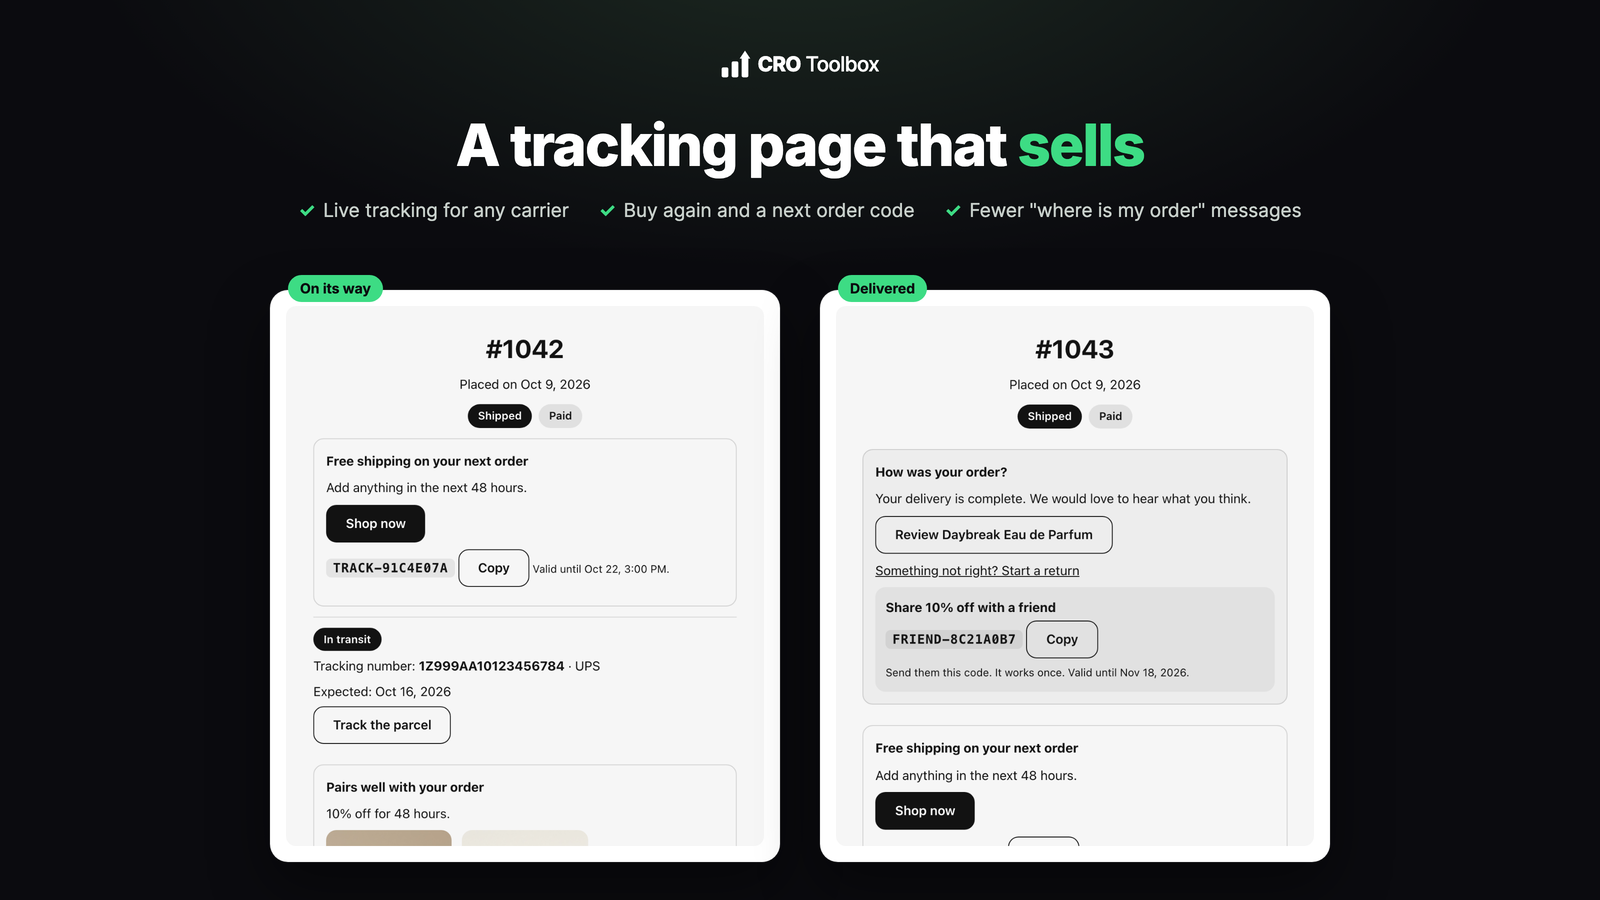
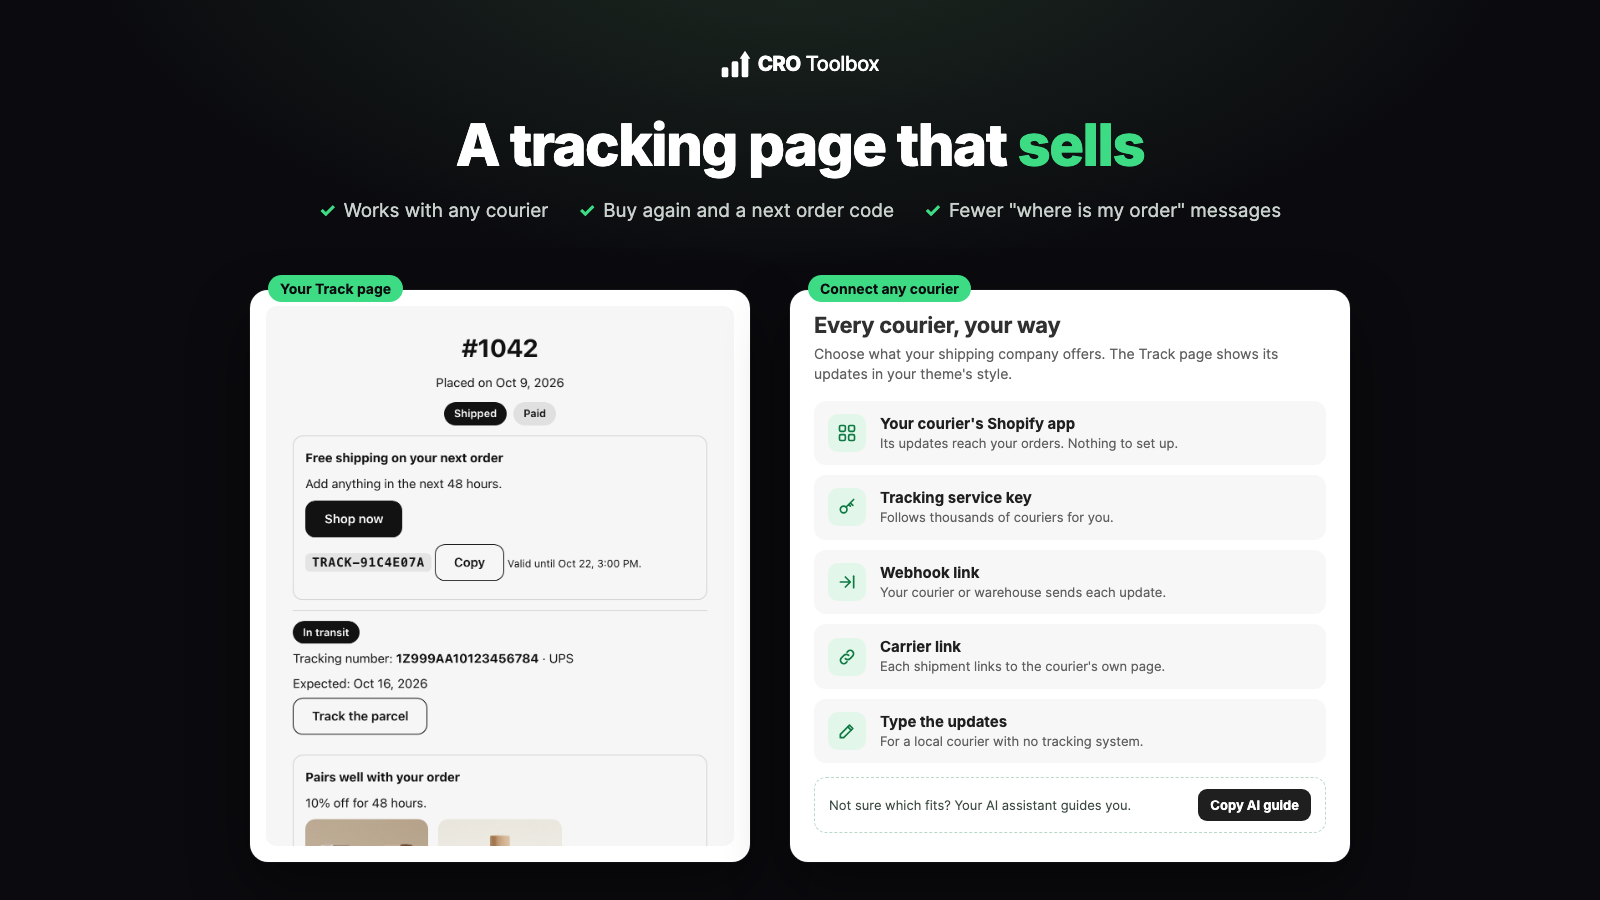
Listing: tracking screenshot shows the ways to connect any courier; workboard: add to order after approval

diff --git a/branding/listing/templates/shot-4-tracking.html b/branding/listing/templates/shot-4-tracking.html
@@ -1,13 +1,39 @@
 <!doctype html>
-<!-- Listing screenshot 4 (centred top layout, like feature.html). Render: scripts/listing/render.sh shot-4-tracking -->
-<html><head><meta charset="utf-8"><link rel="stylesheet" href="../styles.css"></head>
+<!-- Listing screenshot 4 (centred top layout, like feature.html): the Track page and the ways to connect any courier.
+     Render: scripts/listing/render.sh shot-4-tracking -->
+<html><head><meta charset="utf-8"><link rel="stylesheet" href="../styles.css">
+<style>
+  .ways { padding: 22px 24px 20px; color: #303030; }
+  .ways h2 { font-size: 22px; font-weight: 700; letter-spacing: -.3px; }
+  .ways .sub { font-size: 14px; color: #616161; margin-top: 6px; line-height: 1.45; }
+  .ways .list { margin-top: 16px; display: flex; flex-direction: column; gap: 10px; }
+  .way { display: flex; gap: 14px; align-items: center; background: #f6f7f6; border-radius: 12px; padding: 13px 14px; }
+  .way .ic { flex: none; width: 38px; height: 38px; border-radius: 10px; background: #e3f6ea; display: grid; place-items: center; }
+  .way .ic svg { width: 20px; height: 20px; stroke: #0e7a43; fill: none; stroke-width: 2; stroke-linecap: round; stroke-linejoin: round; }
+  .way b { display: block; font-size: 15px; font-weight: 650; color: #1f1f1f; }
+  .way span { display: block; font-size: 13px; color: #616161; margin-top: 2px; line-height: 1.35; }
+  .ways .ai { margin-top: 14px; display: flex; align-items: center; justify-content: space-between; gap: 12px; border: 1px dashed #b9d9c6; border-radius: 12px; padding: 11px 14px; }
+  .ways .ai span { font-size: 13px; color: #3d4a42; line-height: 1.35; }
+  .ways .ai i { font-style: normal; flex: none; font-size: 13px; font-weight: 650; background: #1f1f1f; color: #fff; padding: 8px 12px; border-radius: 9px; }
+</style></head>
 <body>
   <div class="top">
     <img class="logo" src="../logo.svg" alt="">
     <h1>A tracking page that <span>sells</span></h1>
-    <div class="checks"><div><b>✓</b>Live tracking for any carrier</div><div><b>✓</b>Buy again and a next order code</div><div><b>✓</b>Fewer "where is my order" messages</div></div>
+    <div class="checks"><div><b>✓</b>Works with any courier</div><div><b>✓</b>Buy again and a next order code</div><div><b>✓</b>Fewer "where is my order" messages</div></div>
   </div>
-</body></html>
-  <div class="card" style="left:270px; top:290px; width:510px"><span class="tag">On its way</span><img src="../widgets/track.png" style="height:540px;object-fit:cover;object-position:top"></div>
-  <div class="card" style="left:820px; top:290px; width:510px"><span class="tag">Delivered</span><img src="../widgets/track-delivered.png" style="height:540px;object-fit:cover;object-position:top"></div>
+  <div class="card" style="left:250px; top:290px; width:500px"><span class="tag">Your Track page</span><img src="../widgets/track.png" style="height:540px;object-fit:cover;object-position:top"></div>
+  <div class="card ways" style="left:790px; top:290px; width:560px; height:572px">
+    <span class="tag">Connect any courier</span>
+    <h2>Every courier, your way</h2>
+    <p class="sub">Choose what your shipping company offers. The Track page shows its updates in your theme's style.</p>
+    <div class="list">
+      <div class="way"><div class="ic"><svg viewBox="0 0 24 24"><rect x="3" y="3" width="7" height="7" rx="1.5"/><rect x="14" y="3" width="7" height="7" rx="1.5"/><rect x="3" y="14" width="7" height="7" rx="1.5"/><rect x="14" y="14" width="7" height="7" rx="1.5"/></svg></div><div><b>Your courier's Shopify app</b><span>Its updates reach your orders. Nothing to set up.</span></div></div>
+      <div class="way"><div class="ic"><svg viewBox="0 0 24 24"><circle cx="8" cy="15" r="4"/><path d="M11 12l9-9M16 7l3 3M14 9l2 2"/></svg></div><div><b>Tracking service key</b><span>Follows thousands of couriers for you.</span></div></div>
+      <div class="way"><div class="ic"><svg viewBox="0 0 24 24"><path d="M4 12h10M10 6l6 6-6 6"/><path d="M20 5v14"/></svg></div><div><b>Webhook link</b><span>Your courier or warehouse sends each update.</span></div></div>
+      <div class="way"><div class="ic"><svg viewBox="0 0 24 24"><path d="M10 14a4 4 0 0 0 5.7 0l3-3a4 4 0 0 0-5.7-5.7l-1 1"/><path d="M14 10a4 4 0 0 0-5.7 0l-3 3a4 4 0 0 0 5.7 5.7l1-1"/></svg></div><div><b>Carrier link</b><span>Each shipment links to the courier's own page.</span></div></div>
+      <div class="way"><div class="ic"><svg viewBox="0 0 24 24"><path d="M4 20h4l11-11-4-4L4 16z"/><path d="M13 7l4 4"/></svg></div><div><b>Type the updates</b><span>For a local courier with no tracking system.</span></div></div>
+    </div>
+    <div class="ai"><span>Not sure which fits? Your AI assistant guides you.</span><i>Copy AI guide</i></div>
+  </div>
 </body></html>

diff --git a/docs/WORKBOARD.md b/docs/WORKBOARD.md
@@ -112,6 +112,12 @@ Updated 2026-10-24.
 
 ## Later, in Omar's exact words when we get there (2026-10-20)
 
+- [ ] **After App Store approval, first:** add to the existing order from the Track page (Omar, 2026-10-29): the shopper
+      picks an offer ("add X, get free delivery") and X is added to the paid order with Shopify order editing
+      (`write_order_edits`, the shopper pays the difference by Shopify's invoice), free delivery applied to the order's
+      shipping, a setting for when adding is allowed (for example only before it ships), and loyalty points for the
+      added items when loyalty is on. Kept until after approval so the review doesn't get a new permission and flow.
+
 - [ ] Website: let visitors try the features on the website as if it were a real store. Leave until the end;
       Omar will describe exactly how he wants it before anyone builds it.
 - [ ] Listing screenshots must include the Track page (live carrier tracking, offers, next order code, buy again)
